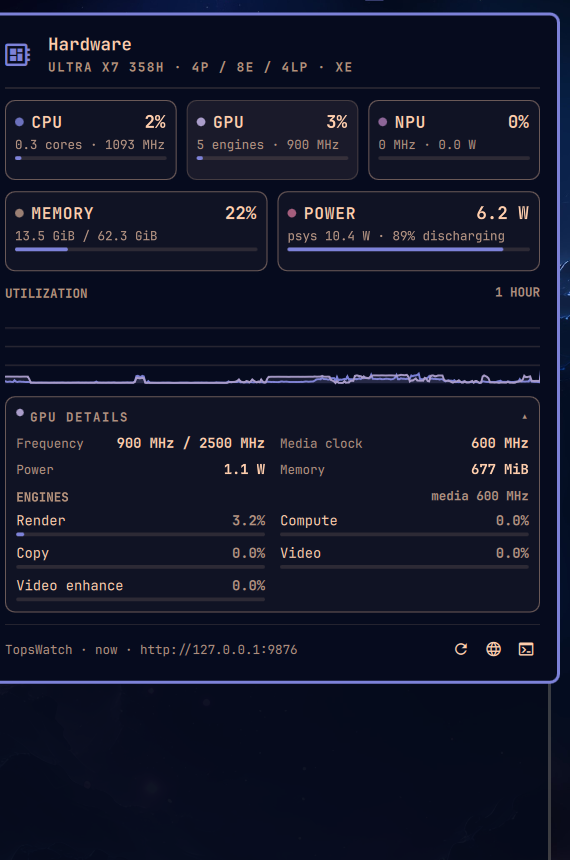
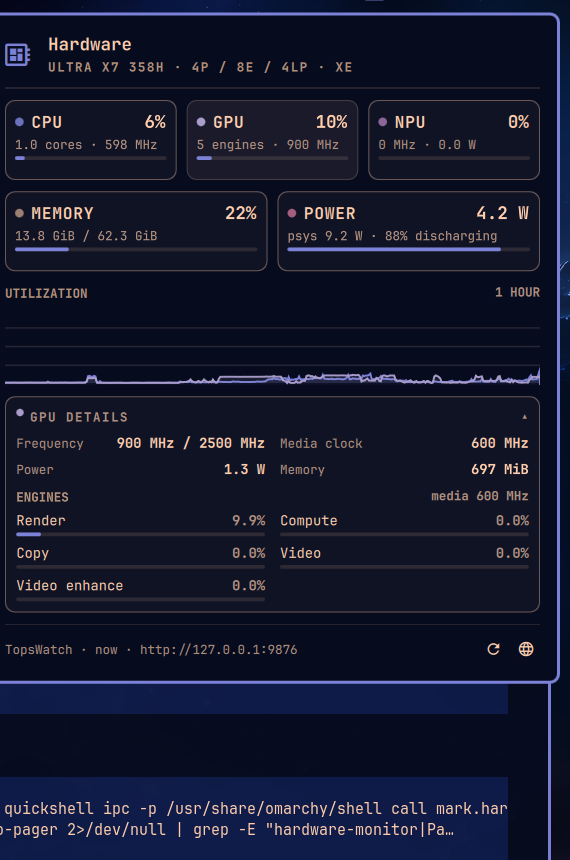
Remove btop button and simplify bar tooltip
The bar tooltip is now a single line with CPU/GPU/NPU utilization, memory, and power. The footer keeps only refresh and the web UI action.

diff --git a/dotfiles/omarchy-plugins/.config/omarchy/plugins/mark.hardware-monitor/Panel.qml b/dotfiles/omarchy-plugins/.config/omarchy/plugins/mark.hardware-monitor/Panel.qml
@@ -114,22 +114,13 @@ Panel {
   }
 
   function tooltipText() {
-    var lines = []
-    lines.push("CPU " + Model.formatPercent(snapshot.cpu.utilization) +
-      (snapshot.cpu.frequency >= 0 ? " · " + Model.formatMHz(snapshot.cpu.frequency) : ""))
-    if (hasGpu)
-      lines.push("GPU " + Model.formatPercent(snapshot.gpu.utilization) +
-        (snapshot.gpu.engines.length > 0 ? " · " + snapshot.gpu.engines.length + " engines" : ""))
-    if (hasNpu)
-      lines.push("NPU " + Model.formatPercent(snapshot.npu.utilization))
-    if (snapshot.cpu.power >= 0)
-      lines.push("Package " + Model.formatWatts(snapshot.cpu.power))
-    lines.push(metrics.status === "online" && !metrics.stale
-      ? "TopsWatch · updated " + ageText()
-      : "TopsWatch offline · click for details")
-    lines.push("Click for details · Right-click web UI · Middle-click btop")
-    return lines.join("\n")
+    return "CPU " + Model.formatPercent(snapshot.cpu.utilization) +
+      " · GPU " + Model.formatPercent(snapshot.gpu.utilization) +
+      " · NPU " + Model.formatPercent(snapshot.npu.utilization) +
+      " · MEM " + Model.formatPercent(snapshot.cpu.memoryPercent) +
+      " · PWR " + root.powerTileValue()
   }
+
 
   BarIconButton {
     id: barButton
@@ -817,14 +808,6 @@ Panel {
                 hoverColor: root.accent
                 fontFamily: root.fontFamily
                 onClicked: root.openWebUI()
-              }
-              PanelActionButton {
-                iconText: ""
-                tooltipText: "Open btop (B)"
-                foreground: root.foreground
-                hoverColor: root.accent
-                fontFamily: root.fontFamily
-                onClicked: root.launchBtop()
               }
             }
           }

diff --git a/dotfiles/omarchy-plugins/.config/omarchy/plugins/mark.hardware-monitor/README.md b/dotfiles/omarchy-plugins/.config/omarchy/plugins/mark.hardware-monitor/README.md
@@ -23,12 +23,12 @@ source can be added without touching the panel.
 | History | — | 1-hour CPU/GPU/NPU utilization chart; the card dots are the legend |
 | Health | stale/offline tooltip | TopsWatch warnings and a stale/offline banner |
 
-The bar is a single chip icon; its tooltip carries the CPU/GPU/NPU and package
-numbers. Left-click opens the panel, right-click opens the TopsWatch web UI,
-and middle-click opens btop. The CPU/GPU/NPU summary cards sit side by side at
-the top of the panel, followed by the memory/power cards and the 1-hour graph.
-Clicking a toggleable card (or pressing `C`, `G`, `N`, `P`) expands its
-full-width detail section below the summary rows.
+The bar is a single chip icon; its tooltip is a single line with CPU/GPU/NPU
+utilization, memory, and power. Left-click opens the panel, right-click opens
+the TopsWatch web UI, and middle-click opens btop. The CPU/GPU/NPU summary cards
+sit side by side at the top of the panel, followed by the memory/power cards
+and the 1-hour graph. Clicking a toggleable card (or pressing `C`, `G`, `N`,
+`P`) expands its full-width detail section below the summary rows.
 
 ## Requirements
 
